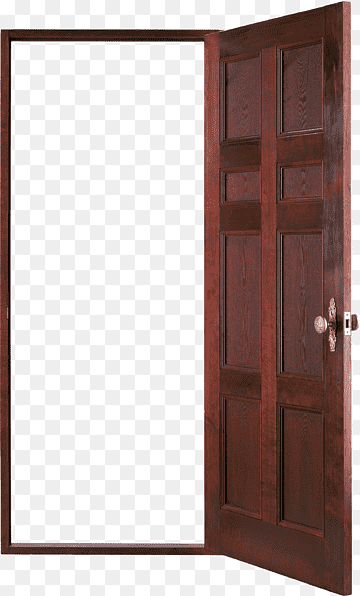
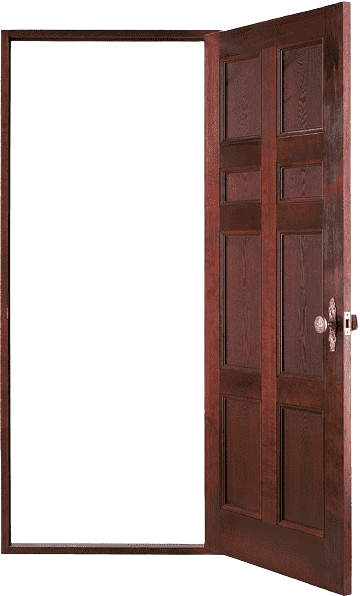
adding player inventory

diff --git a/src/game/player.rs b/src/game/player.rs
@@ -51,6 +51,57 @@ pub struct DoorCollectableInventory {
     opens: Vec<usize>,
 }
 
+#[derive(Debug, Clone)]
+pub enum InventoryItemType {
+    Weapon,
+    TrickCan,
+}
+
+pub const DEFAULT_SIZE_FOR_INVENTORY_ITEM: Size<f32> = Size { width: 40.0, height: 40.0 };
+
+#[derive(Debug, Clone)]
+pub struct InventoryItem<'a> {
+    item_type: InventoryItemType,
+    amount: u32, 
+    ammo: Option<usize>,
+    image: &'a str,
+    name: String,
+}
+
+impl<'a> InventoryItem<'a> {
+    pub fn new(item_type: InventoryItemType, amount: u32, ammo: Option<usize>, image: &'a str, name: String) -> Self {
+        Self {
+            item_type,
+            amount,
+            ammo,
+            image,
+            name
+        }
+    }
+}
+
+impl<'a> InventoryItem<'a> {
+    pub fn get_item_type(&self) -> &InventoryItemType {
+        &self.item_type
+    }
+
+    pub fn get_name(&self) -> String {
+        self.name.clone()
+    }
+
+    pub fn get_amount(&self) -> u32 {
+        self.amount
+    }
+
+    pub fn get_ammo(&self) -> Option<usize> {
+        self.ammo
+    }
+
+    pub fn get_image(&self) -> &'a str {
+        self.image
+    }
+}
+
 #[derive(Debug)]
 pub struct Player<'a> {
     position: Position,
@@ -63,6 +114,8 @@ pub struct Player<'a> {
     status: PlayerStatus,
     interaction: Option<PlayerInteraction>,
     door_collectable_inventory: Vec<DoorCollectableInventory>,
+    inventory: Vec<InventoryItem<'a>>,
+    holding: Option<usize>,
     coins: u32,
     is_detected_by_enemy: bool,
     is_teleported: bool,
@@ -83,6 +136,11 @@ impl Player<'_> {
             status: PlayerStatus::NotHidden,
             interaction: None,
             door_collectable_inventory: Vec::new(),
+            inventory: vec![
+                InventoryItem::new(InventoryItemType::TrickCan, 25, None, "assets/game/trick-can.png", String::from("Trick Can")),
+                InventoryItem::new(InventoryItemType::Weapon, 1, Some(15), "assets/game/camera-gun.webp", String::from("Camera Gun"))
+            ],
+            holding: None,
             coins: 0,
             is_detected_by_enemy: false,
             is_teleported: false,
@@ -200,6 +258,60 @@ impl<'a> Player<'a> {
 
     fn set_calc_position(&mut self) {
         self.calc_position = calculate_calc_position(self.position, self.size, self.movement_value);
+    }
+
+    pub fn get_holding_item(&self) -> Option<InventoryItem<'a>> {
+        if let Some(holding) = self.holding {
+            Some(self.inventory[holding].clone())
+        } else {
+            None
+        }
+    }
+
+    fn get_next_holding_item_index(&self) -> usize {
+        if let Some(holding) = self.holding {
+            (holding + 1) % self.inventory.len()
+        } else {
+            0
+        }
+    }
+
+    fn get_prev_holding_item_index(&self) -> usize {
+        if let Some(holding) = self.holding {
+            if holding == 0 {
+                return self.inventory.len() - 1;   
+            }
+
+            (holding - 1) % self.inventory.len()
+        } else {
+            0
+        }
+    }
+
+    pub fn switch_items(&mut self) {
+        if let Some(interaction) = &self.interaction {
+            match interaction.key() {
+                &Key::I => {
+                    if interaction.action() == &Action::Repeat {
+                        self.holding = None;
+                    }
+                },
+
+                &Key::K => {
+                    if interaction.action() == &Action::Press {
+                        self.holding = Some(self.get_next_holding_item_index());
+                    }
+                },
+
+                &Key::J => {
+                    if interaction.action() == &Action::Press {
+                        self.holding = Some(self.get_prev_holding_item_index());
+                    }
+                }
+
+                _ => ()
+            }
+        }
     }
 
     pub fn move_player(&mut self, direction: Direction) {

diff --git a/src/bin/simulator/simulator.rs b/src/bin/simulator/simulator.rs
@@ -1,4 +1,4 @@
-use detective_game::{game::{camera::Camera, character::Character, collectable::{DoorCollectable, DoorCollectableType}, door::{Door, DoorType, TeleportDoor}, enemy::{Enemy, EnemyType}, hide_place::HidePlace, level::{GameObject, DEFAULT_SIZE}, player::{Player, PlayerStatus}, wall::Wall}, library::utils::get_attached_enemy_index, renderer::{color::Color, error::Result, render::{Render, Size}, vertice::Position}};
+use detective_game::{game::{camera::Camera, character::Character, collectable::{DoorCollectable, DoorCollectableType}, door::{Door, DoorType, TeleportDoor}, enemy::{Enemy, EnemyType}, hide_place::HidePlace, level::{GameObject, DEFAULT_SIZE}, player::{Player, PlayerStatus, DEFAULT_SIZE_FOR_INVENTORY_ITEM}, wall::Wall}, library::utils::get_attached_enemy_index, renderer::{color::Color, error::Result, render::{Render, Size}, vertice::Position}};
 use glfw::{Action, Key};
 
 pub type SimulationResult<T> = std::result::Result<T, SimulationError>;
@@ -26,6 +26,7 @@ pub enum SimulatorType {
     PlayerInteractionWithHidePlace,
     CameraLogic,
     DoorLogic,
+    PlayerLogic,
     Other
 }
 
@@ -72,6 +73,23 @@ impl<'a> Simulator<'a> {
         
         render.display_text(&format!("status: {}", player.get_status()), Position { x: 400.0, y: 500.0 }, 1.0, None, Color::White).expect("Unable to display text"); 
         render.display_text(&format!("notoriety level: {}", self.notoriety_level), Position { x: 10.0, y: 560.0 }, 1.0, None, Color::White).expect("Unable to display text"); 
+        
+        // Should be in a function
+        let holding = player.get_holding_item();
+
+        let holding_info: (Option<&str>, String);
+        if let Some(item) = holding {
+            holding_info = (Some(item.get_image()), item.get_name());
+        } else {
+            holding_info = (None, String::from("nothing"));
+        }
+
+        if let Some(image_path) = holding_info.0 {
+            render.load_image(image_path, Position { x: 150.0, y: 650.0 }, DEFAULT_SIZE_FOR_INVENTORY_ITEM, false, None, None, None, None)?;
+        }
+
+        render.display_text(&format!("holding: {}", holding_info.1), Position { x: 200.0, y: 650.0 }, 1.0, None, Color::White).expect("Unable to display text"); 
+        // Should be in a function
 
         for wall in self.walls.iter() {
             if player.collide(wall) {
@@ -248,6 +266,7 @@ impl<'a> Simulator<'a> {
         }
 
         player.draw(render)?;
+        player.switch_items();
 
         Ok(())
     }
@@ -328,6 +347,10 @@ impl<'a> Simulator<'a> {
                 self.teleport_doors.push(TeleportDoor::new(Position { x: 360.0, y: 255.0 }, Position { x: 200.0, y: 100.0 }, None, None));
                 
                 self.hide_places.push(HidePlace::new(Position { x: 302.0, y: 255.0 }, None));
+            },
+
+            SimulatorType::PlayerLogic => {
+
             }
 
             SimulatorType::Other => () 

diff --git a/src/bin/simulator/main.rs b/src/bin/simulator/main.rs
@@ -37,7 +37,7 @@ fn main() {
     let mut player = Player::new(Position { x: 10.0, y: 10.0 }, true);
     let mut simulator = Simulator::new();
 
-    simulator.load_simulation(SimulatorType::DoorLogic).expect("Unable to load simulation");
+    simulator.load_simulation(SimulatorType::EnemyLogic).expect("Unable to load simulation");
 
     let mut last_update = Instant::now();
 

diff --git a/src/game/door.rs b/src/game/door.rs
@@ -114,7 +114,7 @@ impl Door<'_> {
     pub fn open(&mut self) {
         if !self.is_locked {
             self.is_closed = false;
-            self.image = "assets/game/regular-open-door.png";
+            self.image = "assets/game/regular-open-door.png"; 
         }
     }
 
